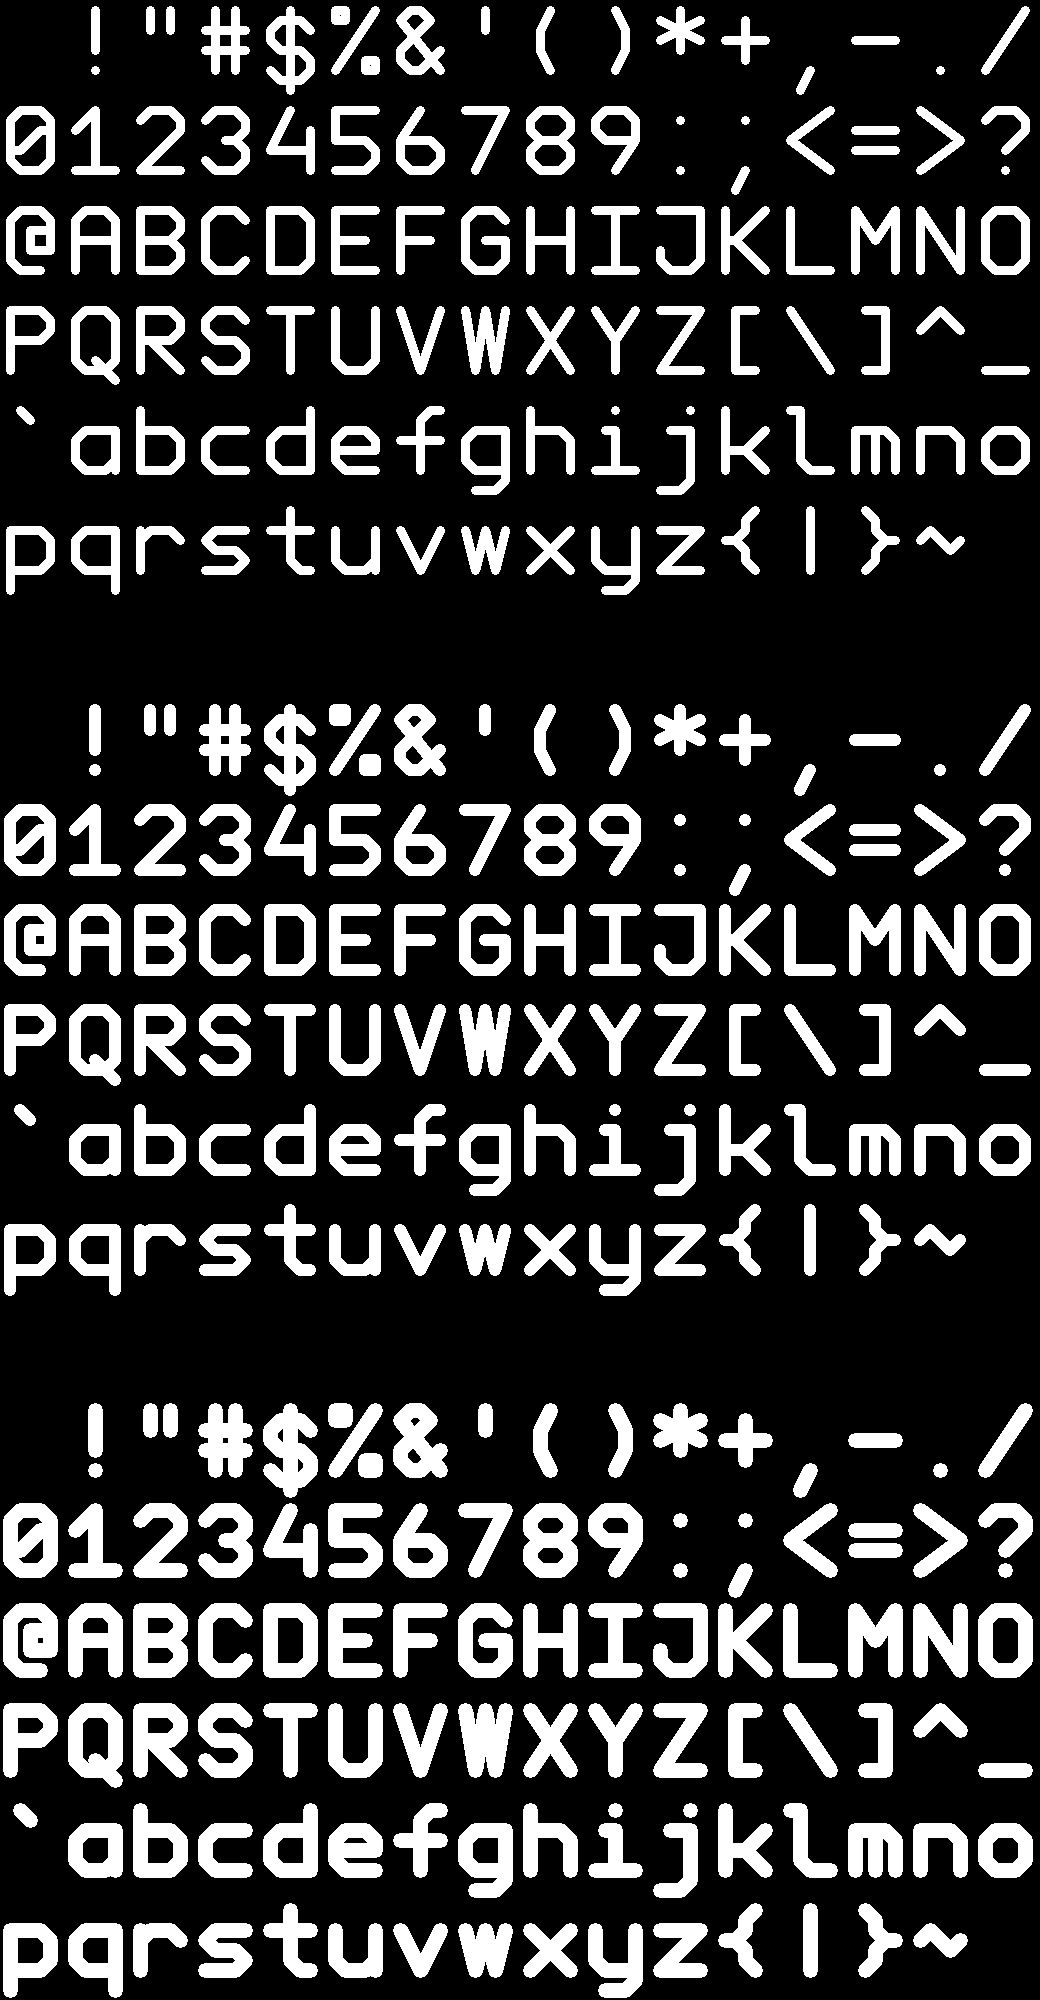
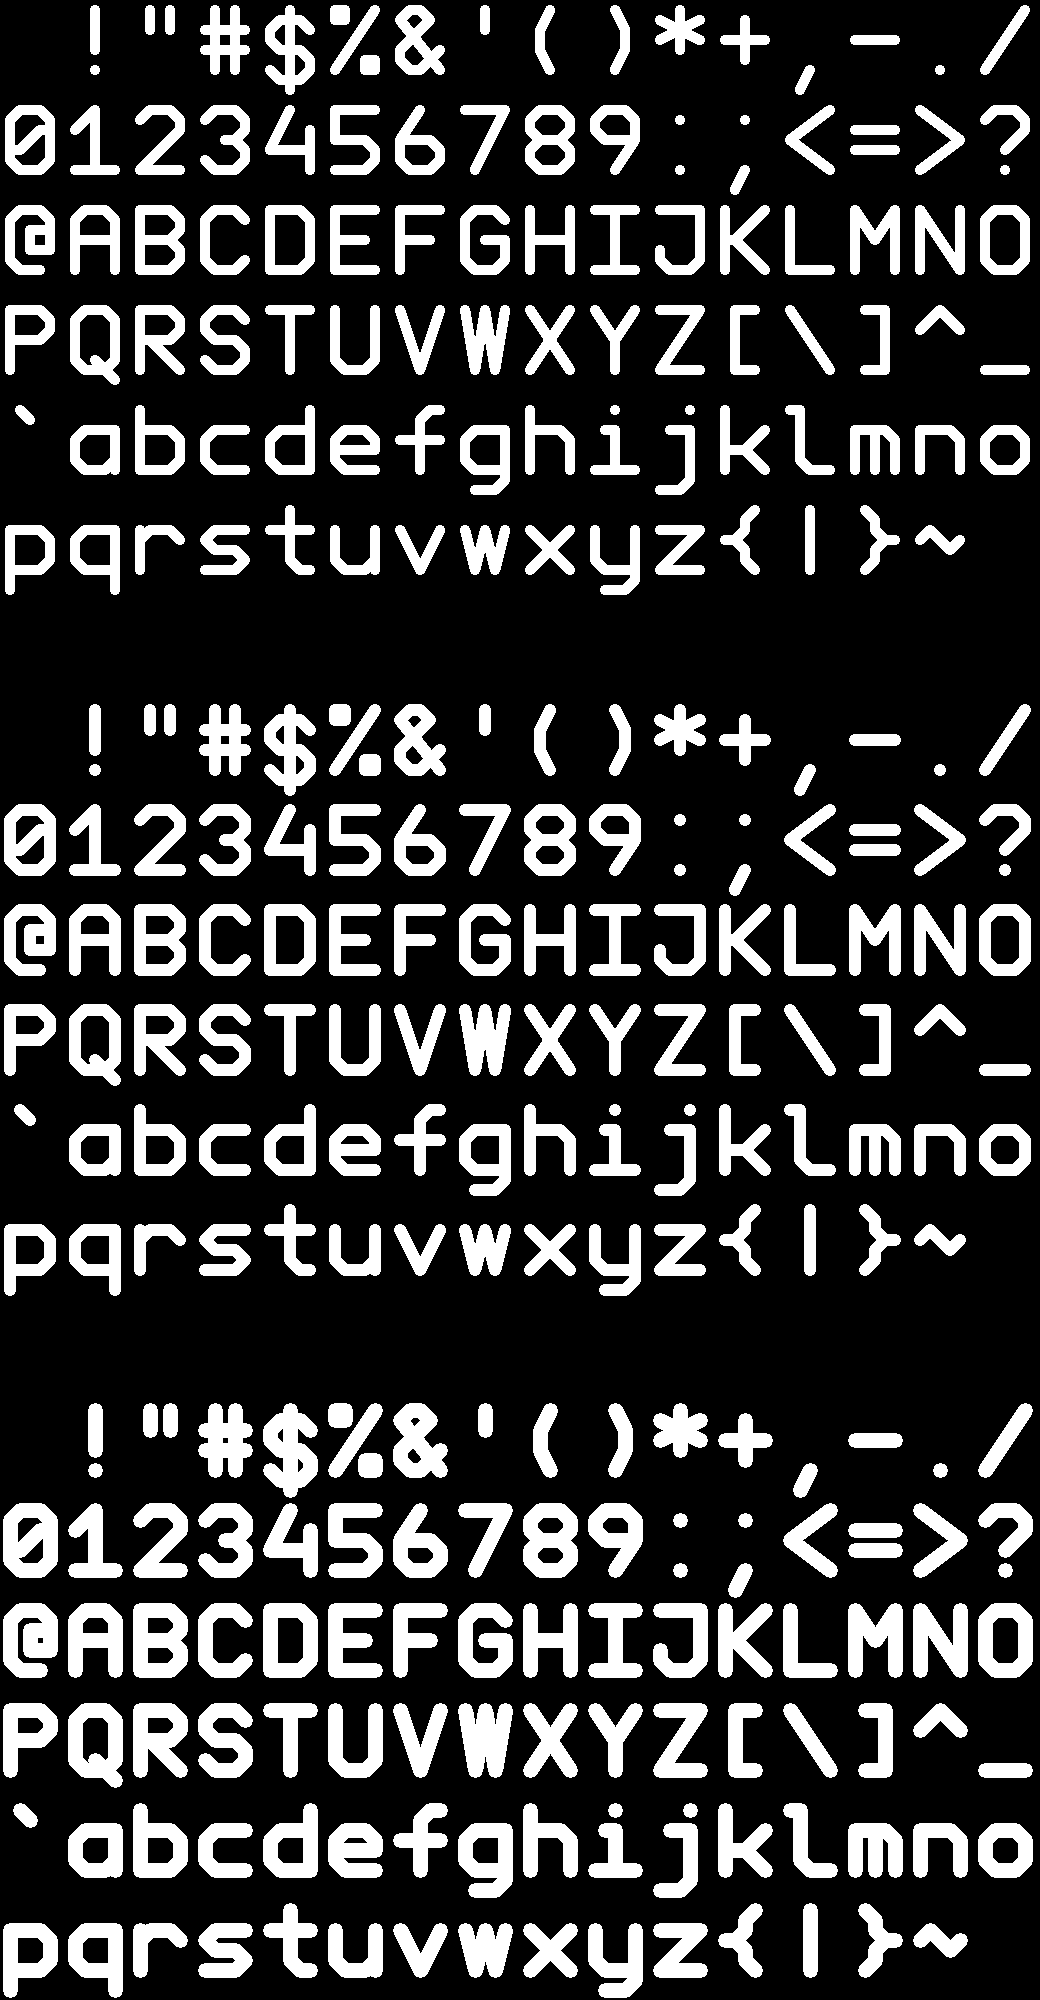
Refactor

diff --git a/font/font_test.go b/font/font_test.go
@@ -14,22 +14,26 @@ func TestFont_SavePng(t *testing.T) {
 	const scale = 100.0
 
 	bm := bitmap.NewBitmap(16*scale*Width, 20*scale)
-	thinBrush := shape.Circle(Thin * scale)
+
 	normalBrush := shape.Circle(Normal * scale)
-	boldBrush := shape.Circle(Bold * scale)
+
+	d := Bold * scale
+	boldBrush := shape.Circle(int(d))
+
+	extraBoldBrush := shape.Circle(ExtraBold * scale)
 
 	for i := 0; i < 14; i++ {
 		for j := 0; j < 16; j++ {
 			c := (i+2)*16 + j
 
 			tx := transform.Move(float64(j)*Width, float64(-i)).Scale(scale, -scale)
-			thinBrush.IterateContours(Paths[c].Apply(tx), bm.Set1)
-
-			tx = transform.Move(float64(j)*Width, float64(-i-7)).Scale(scale, -scale)
 			normalBrush.IterateContours(Paths[c].Apply(tx), bm.Set1)
 
-			tx = transform.Move(float64(j)*Width, float64(-i-14)).Scale(scale, -scale)
+			tx = transform.Move(float64(j)*Width, float64(-i-7)).Scale(scale, -scale)
 			boldBrush.IterateContours(Paths[c].Apply(tx), bm.Set1)
+
+			tx = transform.Move(float64(j)*Width, float64(-i-14)).Scale(scale, -scale)
+			extraBoldBrush.IterateContours(Paths[c].Apply(tx), bm.Set1)
 		}
 	}
 

diff --git a/eda/pcb.go b/eda/pcb.go
@@ -154,7 +154,7 @@ func (pcb *PCB) addMarks(c *Component) {
 	t := c.Transform.Multiply(pcb.bitmapTransform())
 
 	// Marks:
-	brushW := font.Bold * font.WeightScale(t)
+	brushW := font.ExtraBold * font.WeightScale(t)
 	brush := shape.Circle(int(brushW))
 	brush.IterateContours(c.Marks.Apply(t), pcb.silk.Set1)
 }

diff --git a/font/font.go b/font/font.go
@@ -11,9 +11,9 @@ type Align float64
 const (
 	Width = 0.65 // relative to height 1.0
 
-	Thin   = 0.09
-	Normal = 0.12
-	Bold   = 0.15
+	Normal    = 0.1
+	Bold      = 0.125
+	ExtraBold = 0.15
 
 	AlignLeft   Align = 0.0
 	AlignCenter Align = 0.5
